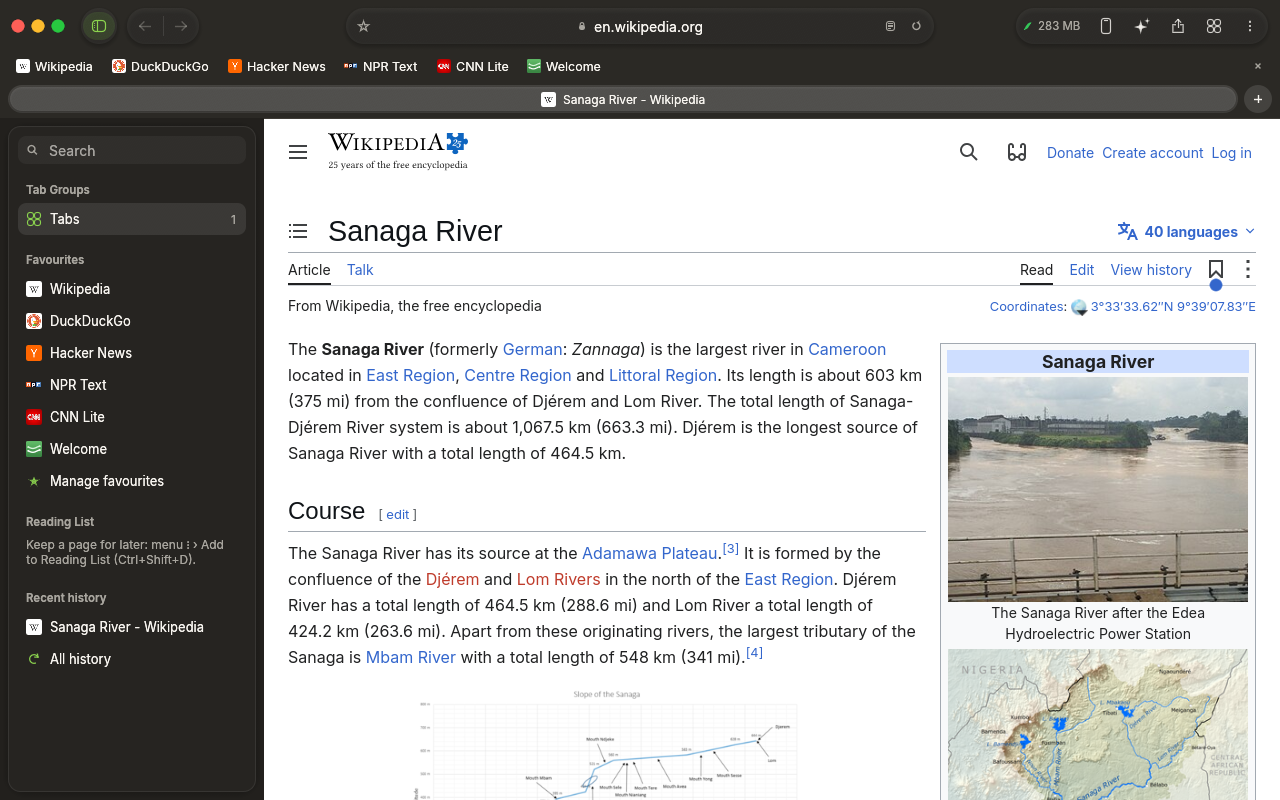
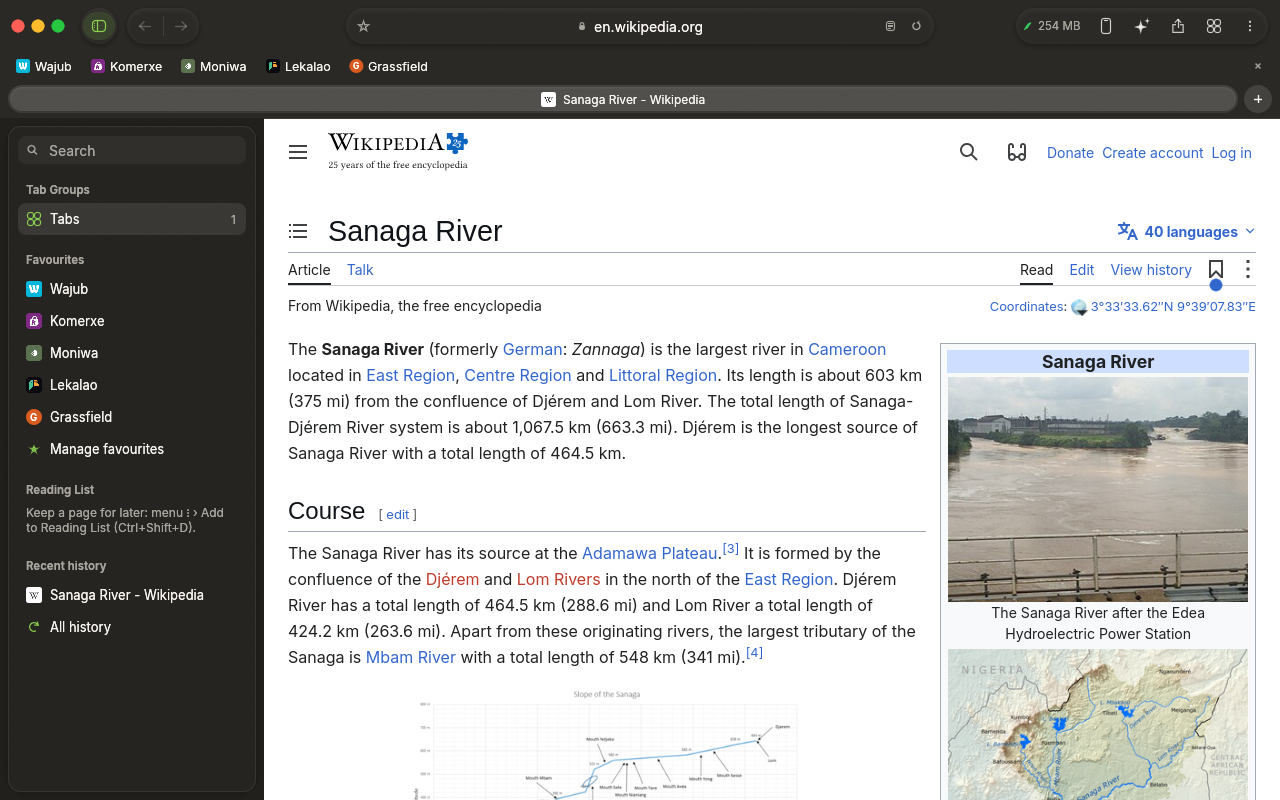
Default favourites: Wajub, Komerxe, Moniwa, Lekalao, Grassfield
- new profiles start with these five favourites
- profiles that still have the old, never-edited favourites get the new ones
- README pictures taken again with the new favourites bar

Changed region(s): [[0.0, 0.3438, 0.1875, 0.8438], [0.0, 0.0625, 0.4688, 0.0938]]

diff --git a/src/store.rs b/src/store.rs
@@ -472,6 +472,12 @@ impl Store {
                 s.save_bookmarks();
             }
         }
+        // the favourites of earlier versions, never changed by the person:
+        // replaced by today's
+        if is_old_default(&s.bookmarks) {
+            s.bookmarks = default_bookmarks(&s.settings.language);
+            s.save_bookmarks();
+        }
         if first_run {
             s.save_settings();
         }
@@ -751,16 +757,23 @@ pub fn write_atomic(path: &Path, data: impl AsRef<[u8]>) -> std::io::Result<()> 
 }
 
 /// First bookmarks, in the interface language (Wikipedia in that language too).
+/// Exactly the favourites Sanaga used to start with (any language).
+fn is_old_default(list: &[Bookmark]) -> bool {
+    let urls: Vec<&str> = list.iter().map(|b| b.url.trim_end_matches('/')).collect();
+    urls.len() == 6
+        && urls[0].starts_with("https://")
+        && urls[0].ends_with(".wikipedia.org")
+        && urls[1..] == ["https://html.duckduckgo.com/html", "https://news.ycombinator.com", "https://text.npr.org", "https://lite.cnn.com", "sanaga://welcome"]
+}
+
 fn default_bookmarks(lang: &str) -> Vec<Bookmark> {
     crate::i18n::set_language(lang);
-    let wiki = format!("https://{}.wikipedia.org/", if lang.is_empty() { "en" } else { lang });
     [
-        (wiki.as_str(), crate::i18n::tr("Wikipédia")),
-        ("https://html.duckduckgo.com/html/", "DuckDuckGo"),
-        ("https://news.ycombinator.com/", "Hacker News"),
-        ("https://text.npr.org/", crate::i18n::tr("NPR Texte")),
-        ("https://lite.cnn.com/", "CNN Lite"),
-        ("sanaga://welcome", crate::i18n::tr("Bienvenue")),
+        ("https://wajub.com/", "Wajub"),
+        ("https://komerxe.com/", "Komerxe"),
+        ("https://moniwa.app/", "Moniwa"),
+        ("https://lekalao.com/", "Lekalao"),
+        ("https://grassfield.site/", "Grassfield"),
     ]
     .iter()
     .map(|(u, t)| Bookmark { url: u.to_string(), title: t.to_string() })
